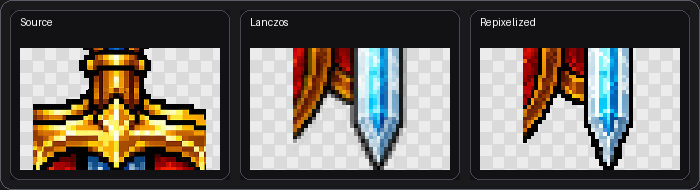
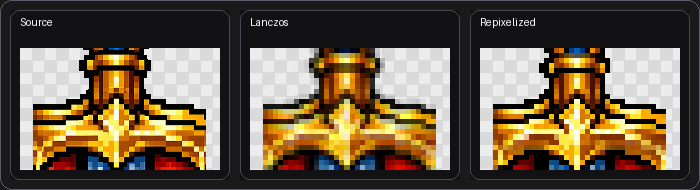
Fix README comparison crop focus

Changed region(s): [[0.69, 0.2368, 0.96, 0.8947], [0.36, 0.2368, 0.63, 0.8947]]

diff --git a/scripts/generate_readme_previews.py b/scripts/generate_readme_previews.py
@@ -640,11 +640,7 @@ def main() -> None:
     for panel, crop in zip(vector_panels, vector_crops, strict=True):
         _add_pip_inset(panel, _build_pip_inset(crop, width=139, height=103), margin_x=4, margin_y=4)
 
-    ai_lanczos_preview = nearest_resize(
-        ai_lanczos,
-        width=phase_field_engine_result.output_rgba.shape[1],
-        height=phase_field_engine_result.output_rgba.shape[0],
-    )
+    ai_guard_cell_inset_bbox = _shrink_bbox_bottom_right(tuple(args.guard_cell_bbox), scale_x=0.5, scale_y=0.5)
     ai_guard_inset_bbox = _shrink_bbox_bottom_right(guard_bbox, scale_x=0.5, scale_y=0.5)
     for panel in ai_panels:
         _draw_source_bbox(
@@ -656,16 +652,16 @@ def main() -> None:
 
     guard_strip = _build_guard_strip(
         _crop_rgba(ai_source, guard_bbox),
-        _crop_rgba(ai_lanczos, tuple(args.engine_cell_bbox)),
-        _crop_rgba(phase_field_engine_result.output_rgba, tuple(args.engine_cell_bbox)),
+        _crop_rgba(ai_lanczos, tuple(args.guard_cell_bbox)),
+        _crop_rgba(phase_field_engine_result.output_rgba, tuple(args.guard_cell_bbox)),
         title=None,
     )
     guard_strip.save(out_guard_crop)
     ai_crops = [
         _crop_rgba(ai_source, ai_guard_inset_bbox),
-        _crop_rgba(ai_lanczos, tuple(_shrink_bbox_bottom_right(tuple(args.engine_cell_bbox), scale_x=0.5, scale_y=0.5))),
-        _crop_rgba(phase_field_engine_result.output_rgba, tuple(_shrink_bbox_bottom_right(tuple(args.engine_cell_bbox), scale_x=0.5, scale_y=0.5))),
-        _crop_rgba(tile_graph_engine_result.output_rgba, tuple(_shrink_bbox_bottom_right(tuple(args.engine_cell_bbox), scale_x=0.5, scale_y=0.5))),
+        _crop_rgba(ai_lanczos, ai_guard_cell_inset_bbox),
+        _crop_rgba(phase_field_engine_result.output_rgba, ai_guard_cell_inset_bbox),
+        _crop_rgba(tile_graph_engine_result.output_rgba, ai_guard_cell_inset_bbox),
     ]
     for panel, crop in zip(ai_panels, ai_crops, strict=True):
         _add_pip_inset(panel, _build_pip_inset(crop, width=139, height=103), margin_x=4, margin_y=4)
